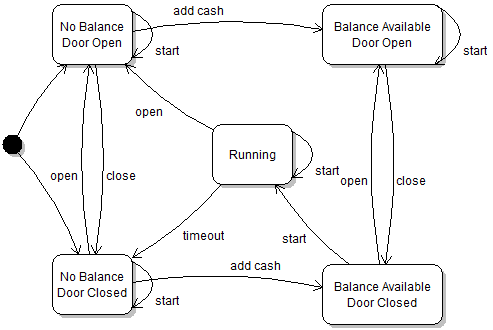
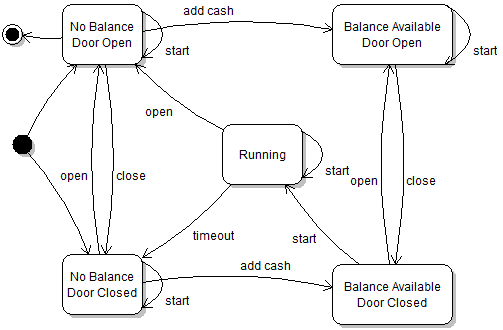
#2 Touch ups to answer

diff --git a/modules/answers/Answers-03.md b/modules/answers/Answers-03.md
@@ -4,6 +4,6 @@ Answers and answer sketches to the Module 3 practice exercises.
 
 ## Exercise 1
 
-The key insight here is that the state of the door (open or closed) needs to be reflected in the modeled abstract states. Note that the state diagram captures information on how the "start" button works. Because every state has a transition labeled "start", it means it's always possible to press the "start" button, it simply happens to do nothing except in the case where there's a balance and the door is closed. Not including the "start" self-transitions would actually be a different specification for the machine. It would mean that it is physically impossible to press the button except when it can start the machine (in the sense that the button is mechanically blocked or something).
+The key insight here is that the state of the door (open or closed) needs to be reflected in the modeled abstract states. Note that the state diagram captures information on how the "start" button works. Because every state has a transition labeled "start", it means it's always possible to press the "start" button, it simply happens to do nothing except in the case where there's a balance and the door is closed. Not including the "start" self-transitions would actually be a different specification for the machine. It would mean that it is physically impossible to press the button except when it can start the machine (in the sense that the button is mechanically blocked or something). Assuming whoever uses the machine actually wants to get their dry laundry back, it makes sense to include an end state.
 
 ![](m03-1.png)
